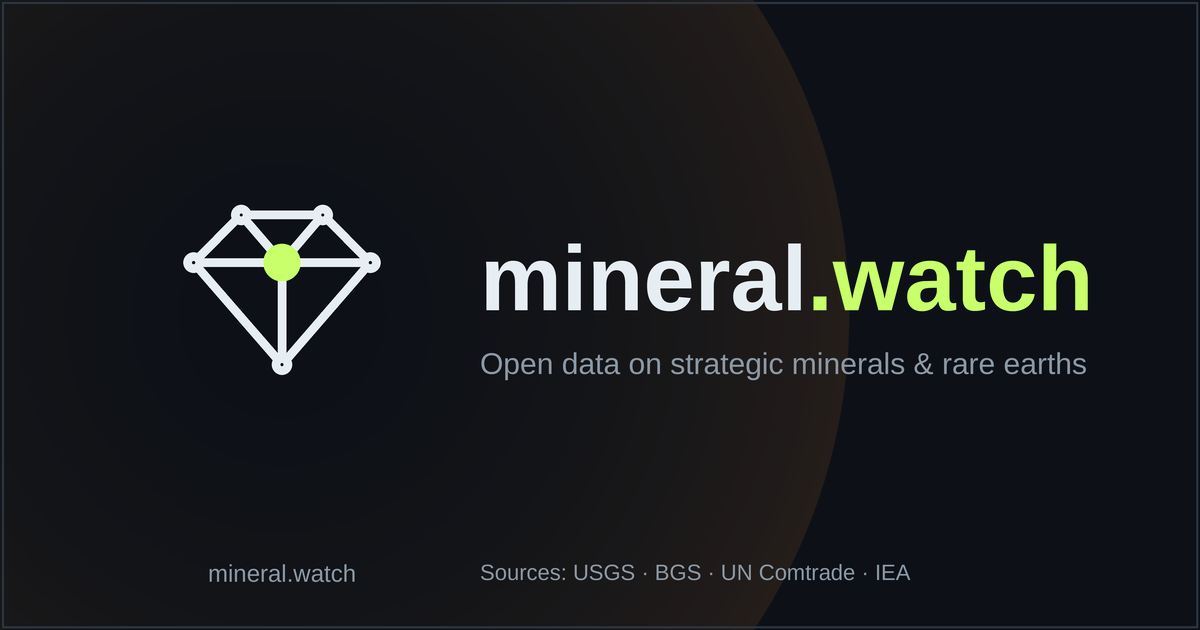
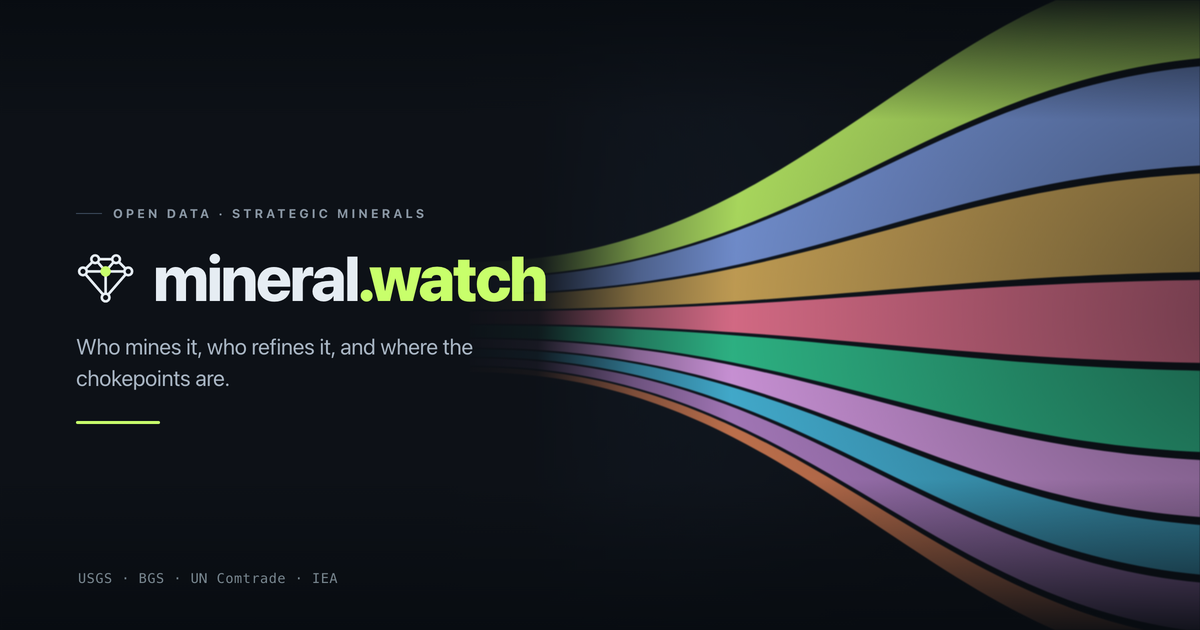
Social preview: replace OG card with Sankey plume design
The old card was the logo and wordmark on a flat gradient. The new one keeps
the wordmark left and fans nine Sankey ribbons out of it, one per tracked
mineral, each width set by that mineral's top-producer share of 2024 world
mine production — the site's signature chart, doing the work.

Adds tools/gen_og_image.py so the card is reproducible, and points every page
at the shared card, graphite included (og-graphite.png was the last one still
on the pre-rebrand design). The ?v=2 query bust forces WhatsApp, Facebook and
X to re-scrape rather than serve the cached old card.

diff --git a/cobalt/index.html b/cobalt/index.html
@@ -20,8 +20,8 @@
 <meta property="og:locale" content="en_US">
 <meta property="og:title" content="CobaltWatch — Tracking the Global Cobalt Supply Chain">
 <meta property="og:description" content="Interactive world map of mines, hydroxide plants and refineries, production and price charts, the DRC export-quota gamble, China's 79% refining grip and the artisanal-mining dilemma — built on USGS, Cobalt Institute, IEA, BGS and price-agency data.">
-<meta property="og:image" content="https://mineral.watch/brand/og-image.png">
-<meta property="og:image:secure_url" content="https://mineral.watch/brand/og-image.png">
+<meta property="og:image" content="https://mineral.watch/brand/og-image.png?v=2">
+<meta property="og:image:secure_url" content="https://mineral.watch/brand/og-image.png?v=2">
 <meta property="og:image:type" content="image/png">
 <meta property="og:image:width" content="1200">
 <meta property="og:image:height" content="630">
@@ -31,7 +31,7 @@
 <meta name="twitter:card" content="summary_large_image">
 <meta name="twitter:title" content="CobaltWatch — Tracking the Global Cobalt Supply Chain">
 <meta name="twitter:description" content="Interactive map, production and price charts, the DRC export-quota saga, Indonesia's rise, China's refining chokepoint and the LFP escape attempt — built on USGS, Cobalt Institute, IEA, BGS and price-agency data.">
-<meta name="twitter:image" content="https://mineral.watch/brand/og-image.png">
+<meta name="twitter:image" content="https://mineral.watch/brand/og-image.png?v=2">
 <meta name="twitter:image:alt" content="CobaltWatch — tracking the global cobalt supply chain">
 
 <!-- Structured data -->

diff --git a/nickel/index.html b/nickel/index.html
@@ -20,8 +20,8 @@
 <meta property="og:locale" content="en_US">
 <meta property="og:title" content="NickelWatch — Tracking the Global Nickel Supply Chain">
 <meta property="og:description" content="Interactive world map of mines, smelter parks and refineries, production and price charts, Indonesia's two-thirds grip, the 2022 LME squeeze, the quota machine and the battery chemistry war — built on USGS, INSG, IEA, BGS and price-agency data.">
-<meta property="og:image" content="https://mineral.watch/brand/og-image.png">
-<meta property="og:image:secure_url" content="https://mineral.watch/brand/og-image.png">
+<meta property="og:image" content="https://mineral.watch/brand/og-image.png?v=2">
+<meta property="og:image:secure_url" content="https://mineral.watch/brand/og-image.png?v=2">
 <meta property="og:image:type" content="image/png">
 <meta property="og:image:width" content="1200">
 <meta property="og:image:height" content="630">
@@ -31,7 +31,7 @@
 <meta name="twitter:card" content="summary_large_image">
 <meta name="twitter:title" content="NickelWatch — Tracking the Global Nickel Supply Chain">
 <meta name="twitter:description" content="Interactive map, production and price charts, Indonesia's quota machine, the class-1/class-2 divide, the LME squeeze legacy and the Western supply cull — built on USGS, INSG, IEA, BGS and price-agency data.">
-<meta name="twitter:image" content="https://mineral.watch/brand/og-image.png">
+<meta name="twitter:image" content="https://mineral.watch/brand/og-image.png?v=2">
 <meta name="twitter:image:alt" content="NickelWatch — tracking the global nickel supply chain">
 
 <!-- Structured data -->

diff --git a/uranium/index.html b/uranium/index.html
@@ -20,8 +20,8 @@
 <meta property="og:locale" content="en_US">
 <meta property="og:title" content="UraniumWatch — Tracking the Global Uranium &amp; Nuclear Fuel Supply Chain">
 <meta property="og:description" content="Interactive world map of uranium mines, conversion and enrichment plants, production and price charts, the Russian enrichment chokepoint and the AI-driven nuclear revival — built on WNA, IAEA, EIA and BGS data.">
-<meta property="og:image" content="https://mineral.watch/brand/og-image.png">
-<meta property="og:image:secure_url" content="https://mineral.watch/brand/og-image.png">
+<meta property="og:image" content="https://mineral.watch/brand/og-image.png?v=2">
+<meta property="og:image:secure_url" content="https://mineral.watch/brand/og-image.png?v=2">
 <meta property="og:image:type" content="image/png">
 <meta property="og:image:width" content="1200">
 <meta property="og:image:height" content="630">
@@ -31,7 +31,7 @@
 <meta name="twitter:card" content="summary_large_image">
 <meta name="twitter:title" content="UraniumWatch — Tracking the Global Uranium &amp; Nuclear Fuel Supply Chain">
 <meta name="twitter:description" content="Interactive map, production and price charts, the enrichment chokepoint, the Russian-ban timeline and the AI-driven nuclear revival — built on WNA, IAEA, EIA and BGS data.">
-<meta name="twitter:image" content="https://mineral.watch/brand/og-image.png">
+<meta name="twitter:image" content="https://mineral.watch/brand/og-image.png?v=2">
 <meta name="twitter:image:alt" content="UraniumWatch — tracking the global uranium supply chain">
 
 <!-- Structured data -->

diff --git a/antimony/index.html b/antimony/index.html
@@ -20,8 +20,8 @@
 <meta property="og:locale" content="en_US">
 <meta property="og:title" content="AntimonyWatch — Tracking the Global Antimony Supply Chain">
 <meta property="og:description" content="Interactive world map of mines, roasters and smelters, production and price charts, China's export ban, the fivefold price spike and the West's scramble to rebuild supply — built on USGS, BGS, trade and price-agency data.">
-<meta property="og:image" content="https://mineral.watch/brand/og-image.png">
-<meta property="og:image:secure_url" content="https://mineral.watch/brand/og-image.png">
+<meta property="og:image" content="https://mineral.watch/brand/og-image.png?v=2">
+<meta property="og:image:secure_url" content="https://mineral.watch/brand/og-image.png?v=2">
 <meta property="og:image:type" content="image/png">
 <meta property="og:image:width" content="1200">
 <meta property="og:image:height" content="630">
@@ -31,7 +31,7 @@
 <meta name="twitter:card" content="summary_large_image">
 <meta name="twitter:title" content="AntimonyWatch — Tracking the Global Antimony Supply Chain">
 <meta name="twitter:description" content="Interactive map, production and price charts, China's export ban, the fivefold price spike and the Western supply-chain rebuild — built on USGS, BGS, trade and price-agency data.">
-<meta name="twitter:image" content="https://mineral.watch/brand/og-image.png">
+<meta name="twitter:image" content="https://mineral.watch/brand/og-image.png?v=2">
 <meta name="twitter:image:alt" content="AntimonyWatch — tracking the global antimony supply chain">
 
 <!-- Structured data -->

diff --git a/rare-earths/index.html b/rare-earths/index.html
@@ -20,8 +20,8 @@
 <meta property="og:locale" content="en_US">
 <meta property="og:title" content="RareEarthWatch — Tracking the Global Rare Earth Supply Chain">
 <meta property="og:description" content="Interactive world map of rare earth mines, separation plants and magnet factories, the 17 elements explained, China's export controls timeline and the refining chokepoint — built on USGS, IEA and trade data.">
-<meta property="og:image" content="https://mineral.watch/brand/og-image.png">
-<meta property="og:image:secure_url" content="https://mineral.watch/brand/og-image.png">
+<meta property="og:image" content="https://mineral.watch/brand/og-image.png?v=2">
+<meta property="og:image:secure_url" content="https://mineral.watch/brand/og-image.png?v=2">
 <meta property="og:image:type" content="image/png">
 <meta property="og:image:width" content="1200">
 <meta property="og:image:height" content="630">
@@ -31,7 +31,7 @@
 <meta name="twitter:card" content="summary_large_image">
 <meta name="twitter:title" content="RareEarthWatch — Tracking the Global Rare Earth Supply Chain">
 <meta name="twitter:description" content="Interactive map, the 17 elements explained, production and reserves charts, the export-controls timeline and the China chokepoint in rare earths — built on USGS, IEA and trade data.">
-<meta name="twitter:image" content="https://mineral.watch/brand/og-image.png">
+<meta name="twitter:image" content="https://mineral.watch/brand/og-image.png?v=2">
 <meta name="twitter:image:alt" content="RareEarthWatch — tracking the global rare earth supply chain">
 
 <!-- Structured data -->

diff --git a/manganese/index.html b/manganese/index.html
@@ -20,8 +20,8 @@
 <meta property="og:locale" content="en_US">
 <meta property="og:title" content="ManganeseWatch — Tracking the Global Manganese Supply Chain">
 <meta property="og:description" content="Interactive world map of mines, smelters and refineries, production and price charts, the China refining chokepoint, the battery pivot and the deep-sea nodule race — built on USGS, IEA, BGS and price-agency data.">
-<meta property="og:image" content="https://mineral.watch/brand/og-image.png">
-<meta property="og:image:secure_url" content="https://mineral.watch/brand/og-image.png">
+<meta property="og:image" content="https://mineral.watch/brand/og-image.png?v=2">
+<meta property="og:image:secure_url" content="https://mineral.watch/brand/og-image.png?v=2">
 <meta property="og:image:type" content="image/png">
 <meta property="og:image:width" content="1200">
 <meta property="og:image:height" content="630">
@@ -31,7 +31,7 @@
 <meta name="twitter:card" content="summary_large_image">
 <meta name="twitter:title" content="ManganeseWatch — Tracking the Global Manganese Supply Chain">
 <meta name="twitter:description" content="Interactive map, production and price charts, the 2024 cyclone spike, Gabon's export ban, the LMR battery bet and the nodule race — built on USGS, IEA, BGS and price-agency data.">
-<meta name="twitter:image" content="https://mineral.watch/brand/og-image.png">
+<meta name="twitter:image" content="https://mineral.watch/brand/og-image.png?v=2">
 <meta name="twitter:image:alt" content="ManganeseWatch — tracking the global manganese supply chain">
 
 <!-- Structured data -->

diff --git a/lithium/index.html b/lithium/index.html
@@ -20,8 +20,8 @@
 <meta property="og:locale" content="en_US">
 <meta property="og:title" content="LithiumWatch — Tracking the Global Lithium Supply Chain">
 <meta property="og:description" content="Interactive world map of hard-rock mines, brine operations and converters, production and reserves charts, the China conversion chokepoint and the boom-bust-boom price cycle — built on USGS, IEA, BGS and price-agency data.">
-<meta property="og:image" content="https://mineral.watch/brand/og-image.png">
-<meta property="og:image:secure_url" content="https://mineral.watch/brand/og-image.png">
+<meta property="og:image" content="https://mineral.watch/brand/og-image.png?v=2">
+<meta property="og:image:secure_url" content="https://mineral.watch/brand/og-image.png?v=2">
 <meta property="og:image:type" content="image/png">
 <meta property="og:image:width" content="1200">
 <meta property="og:image:height" content="630">
@@ -31,7 +31,7 @@
 <meta name="twitter:card" content="summary_large_image">
 <meta name="twitter:title" content="LithiumWatch — Tracking the Global Lithium Supply Chain">
 <meta name="twitter:description" content="Interactive map, production and reserves charts, the conversion chokepoint, the Jianxiawo saga and the price whipsaw — built on USGS, IEA, BGS and price-agency data.">
-<meta name="twitter:image" content="https://mineral.watch/brand/og-image.png">
+<meta name="twitter:image" content="https://mineral.watch/brand/og-image.png?v=2">
 <meta name="twitter:image:alt" content="LithiumWatch — tracking the global lithium supply chain">
 
 <!-- Structured data -->

diff --git a/copper/index.html b/copper/index.html
@@ -20,8 +20,8 @@
 <meta property="og:locale" content="en_US">
 <meta property="og:title" content="CopperWatch — Tracking the Global Copper Supply Chain">
 <meta property="og:description" content="Interactive world map of copper mines, smelters and refineries, the ore-to-cathode chain explained, the smelting chokepoint, the tariff timeline and record prices — built on USGS, ICSG, IEA and BGS data.">
-<meta property="og:image" content="https://mineral.watch/brand/og-image.png">
-<meta property="og:image:secure_url" content="https://mineral.watch/brand/og-image.png">
+<meta property="og:image" content="https://mineral.watch/brand/og-image.png?v=2">
+<meta property="og:image:secure_url" content="https://mineral.watch/brand/og-image.png?v=2">
 <meta property="og:image:type" content="image/png">
 <meta property="og:image:width" content="1200">
 <meta property="og:image:height" content="630">
@@ -31,7 +31,7 @@
 <meta name="twitter:card" content="summary_large_image">
 <meta name="twitter:title" content="CopperWatch — Tracking the Global Copper Supply Chain">
 <meta name="twitter:description" content="Interactive map, production and reserves charts, the smelting chokepoint, the US tariff timeline and record copper prices — built on USGS, ICSG, IEA and BGS data.">
-<meta name="twitter:image" content="https://mineral.watch/brand/og-image.png">
+<meta name="twitter:image" content="https://mineral.watch/brand/og-image.png?v=2">
 <meta name="twitter:image:alt" content="CopperWatch — tracking the global copper supply chain">
 
 <!-- Structured data -->

diff --git a/graphite/index.html b/graphite/index.html
@@ -20,8 +20,8 @@
 <meta property="og:locale" content="en_US">
 <meta property="og:title" content="GraphiteWatch — Tracking the Global Graphite Supply Chain">
 <meta property="og:description" content="Interactive world map of graphite mines, processing and anode plants, trade flows, production/reserves charts and the China chokepoint — built on USGS, BGS, UN Comtrade and IEA data.">
-<meta property="og:image" content="https://mineral.watch/brand/og-graphite.png">
-<meta property="og:image:secure_url" content="https://mineral.watch/brand/og-graphite.png">
+<meta property="og:image" content="https://mineral.watch/brand/og-image.png?v=2">
+<meta property="og:image:secure_url" content="https://mineral.watch/brand/og-image.png?v=2">
 <meta property="og:image:type" content="image/png">
 <meta property="og:image:width" content="1200">
 <meta property="og:image:height" content="630">
@@ -31,7 +31,7 @@
 <meta name="twitter:card" content="summary_large_image">
 <meta name="twitter:title" content="GraphiteWatch — Tracking the Global Graphite Supply Chain">
 <meta name="twitter:description" content="Interactive map, production/reserves charts and the China chokepoint in the global graphite supply chain — built on USGS, BGS, UN Comtrade and IEA data.">
-<meta name="twitter:image" content="https://mineral.watch/brand/og-graphite.png">
+<meta name="twitter:image" content="https://mineral.watch/brand/og-image.png?v=2">
 <meta name="twitter:image:alt" content="GraphiteWatch — tracking the global graphite supply chain">
 
 <!-- Structured data -->

diff --git a/index.html b/index.html
@@ -20,8 +20,8 @@
 <meta property="og:locale" content="en_US">
 <meta property="og:title" content="mineral.watch — Open Data on Strategic Minerals &amp; Rare Earths">
 <meta property="og:description" content="Open data and data visualisation on strategic minerals and rare earths — production, reserves, trade flows and refining concentration, cross-referenced from USGS, BGS, UN Comtrade and IEA data.">
-<meta property="og:image" content="https://mineral.watch/brand/og-image.png">
-<meta property="og:image:secure_url" content="https://mineral.watch/brand/og-image.png">
+<meta property="og:image" content="https://mineral.watch/brand/og-image.png?v=2">
+<meta property="og:image:secure_url" content="https://mineral.watch/brand/og-image.png?v=2">
 <meta property="og:image:type" content="image/png">
 <meta property="og:image:width" content="1200">
 <meta property="og:image:height" content="630">
@@ -31,7 +31,7 @@
 <meta name="twitter:card" content="summary_large_image">
 <meta name="twitter:title" content="mineral.watch — Open Data on Strategic Minerals &amp; Rare Earths">
 <meta name="twitter:description" content="Open data and data visualisation on strategic minerals and rare earths, cross-referenced from USGS, BGS, UN Comtrade and IEA data.">
-<meta name="twitter:image" content="https://mineral.watch/brand/og-image.png">
+<meta name="twitter:image" content="https://mineral.watch/brand/og-image.png?v=2">
 <meta name="twitter:image:alt" content="mineral.watch — open data on strategic minerals and rare earths">
 
 <!-- Structured data -->

diff --git a/supply-chain/index.html b/supply-chain/index.html
@@ -18,11 +18,11 @@
 <meta property="og:site_name" content="mineral.watch">
 <meta property="og:title" content="Mined vs Refined — Strategic Mineral Supply-Chain Map">
 <meta property="og:description" content="Side-by-side world maps of where strategic minerals are mined and where they are refined. Cobalt, copper, nickel, lithium, graphite, rare earths, manganese and antimony, 1970–2024.">
-<meta property="og:image" content="https://mineral.watch/brand/og-image.png">
+<meta property="og:image" content="https://mineral.watch/brand/og-image.png?v=2">
 <meta name="twitter:card" content="summary_large_image">
 <meta name="twitter:title" content="Mined vs Refined — Strategic Mineral Supply-Chain Map">
 <meta name="twitter:description" content="Where strategic minerals are mined vs where they are refined, mapped side by side. Built on BGS World Mineral Statistics.">
-<meta name="twitter:image" content="https://mineral.watch/brand/og-image.png">
+<meta name="twitter:image" content="https://mineral.watch/brand/og-image.png?v=2">
 
 <script>if(/(?:^|[?&])embed=1(?:&|$)/.test(location.search)) document.documentElement.setAttribute("data-embed", "1");</script>
 <link rel="stylesheet" href="https://unpkg.com/leaflet@1.9.4/dist/leaflet.css">

diff --git a/explorer/index.html b/explorer/index.html
@@ -18,11 +18,11 @@
 <meta property="og:site_name" content="mineral.watch">
 <meta property="og:title" content="Mineral Explorer — World Production &amp; Trade Map">
 <meta property="og:description" content="Interactive world map of mineral production, imports and exports for 111 commodities, 1970–2024, with a supply-concentration view. Data from the British Geological Survey.">
-<meta property="og:image" content="https://mineral.watch/brand/og-image.png">
+<meta property="og:image" content="https://mineral.watch/brand/og-image.png?v=2">
 <meta name="twitter:card" content="summary_large_image">
 <meta name="twitter:title" content="Mineral Explorer — World Production &amp; Trade Map">
 <meta name="twitter:description" content="111 commodities, 190 countries, 1970–2024 — volume and supply-concentration views, built on BGS World Mineral Statistics.">
-<meta name="twitter:image" content="https://mineral.watch/brand/og-image.png">
+<meta name="twitter:image" content="https://mineral.watch/brand/og-image.png?v=2">
 
 <link rel="stylesheet" href="https://unpkg.com/leaflet@1.9.4/dist/leaflet.css">
 <style>
